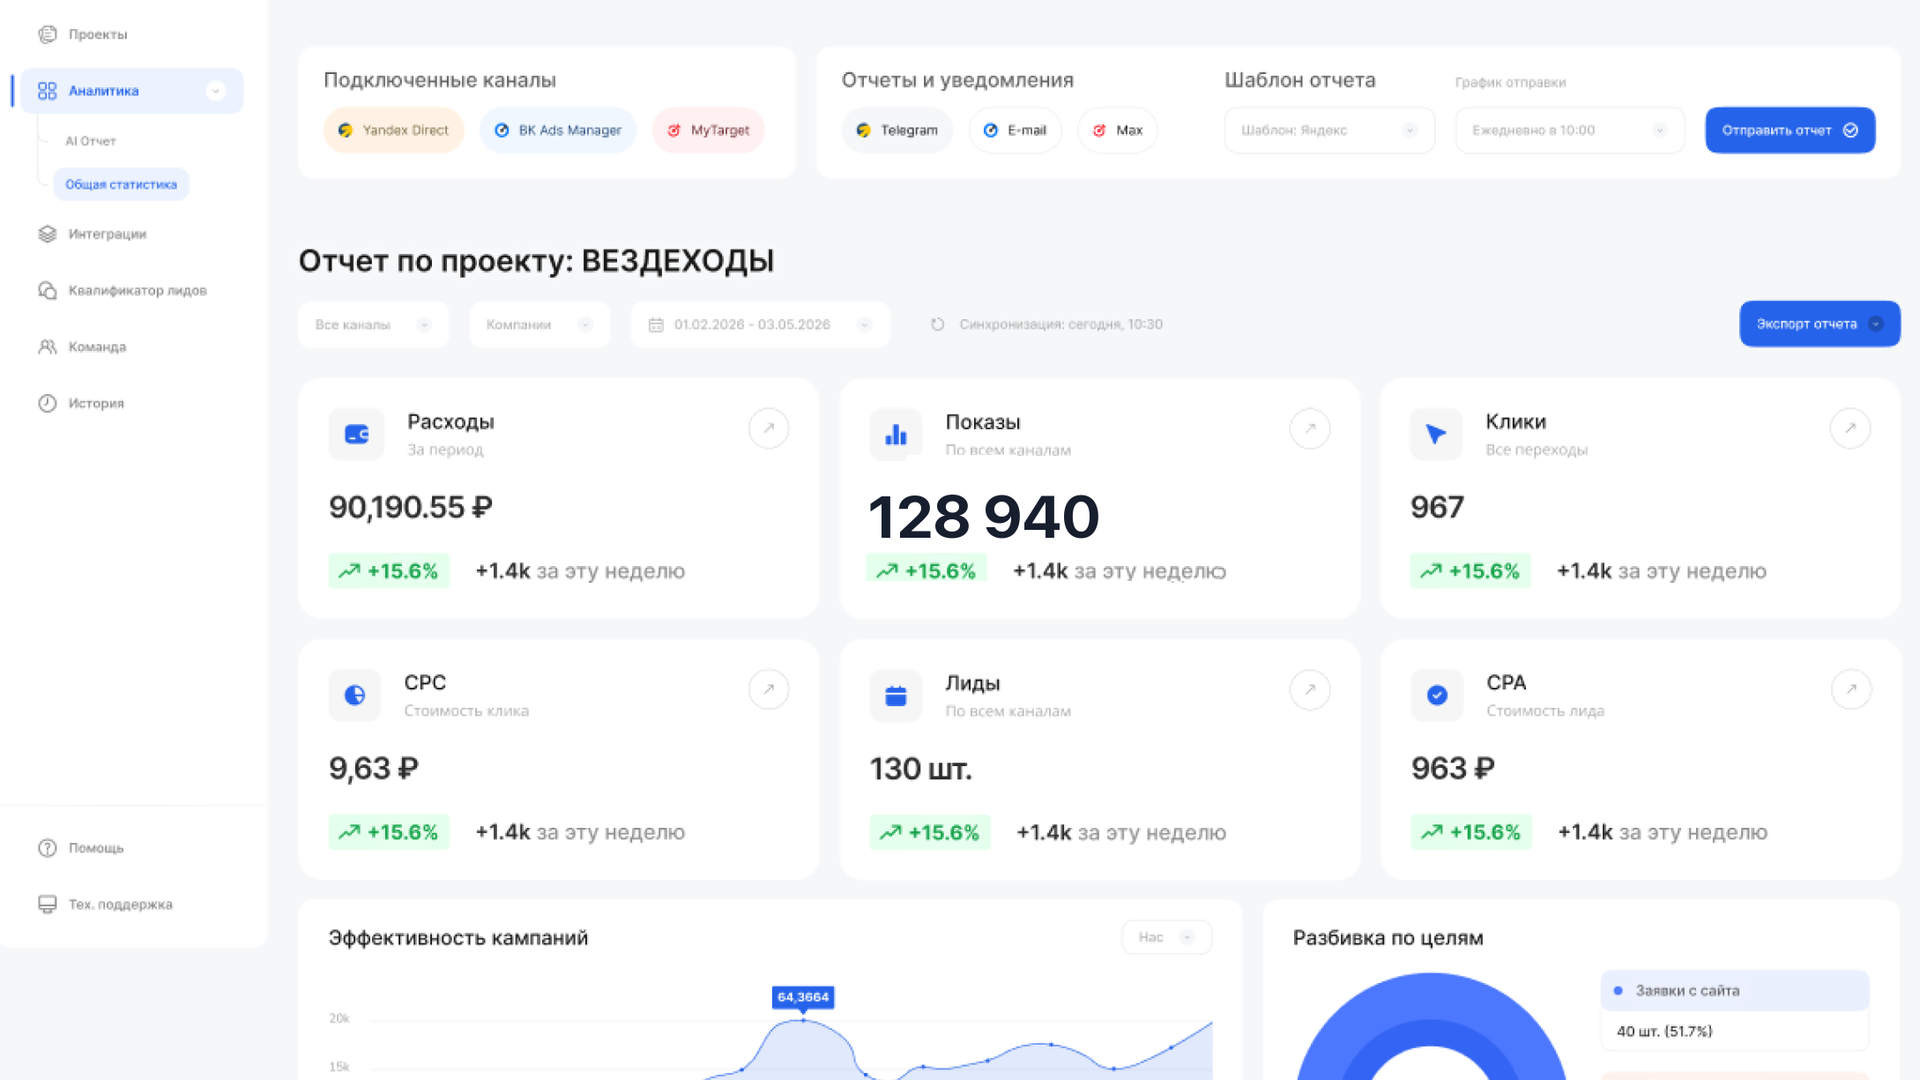
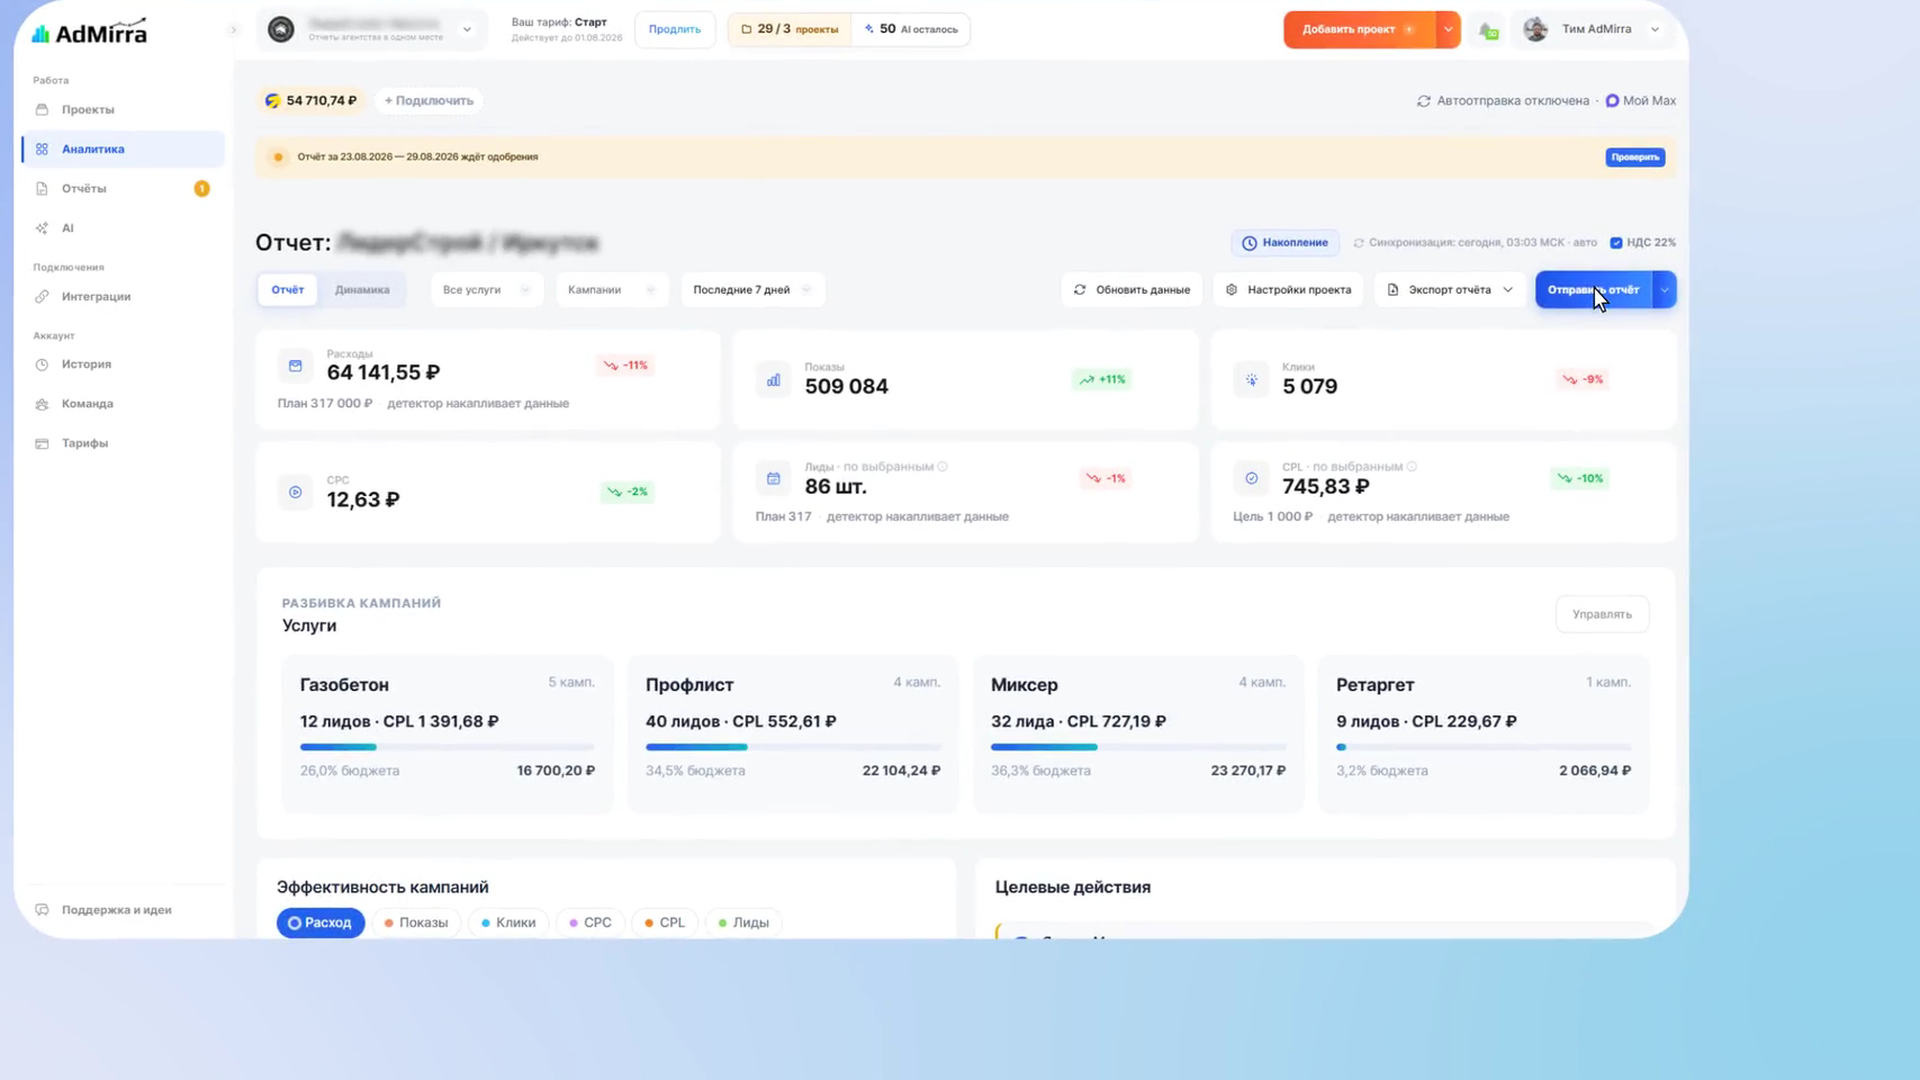
feat(landing): постер планшета — реальный кадр из демо-видео
Заменил реконструированный мок на кадр из admirra-demo.mp4 (75-я секунда):
актуальный интерфейс AdMirra — полная шапка, баланс, сайдбар, 6 KPI-карточек
с планом и дельтами, разбивка кампаний с прогресс-барами. Кадр обрезан в
чистый 16:9 (1920×1080). У видео нет встроенной обложки, поэтому постер задаём
кадром из него. Версия постера поднята до ?v=3 (cache-bust).

Claude-Session: https://claude.ai/code/session_018tEaVUeCD2Cmv5jG2VAAEq

diff --git a/admin-panel-vue-main/admin-panel-vue-main/public/landing-new/index.html b/admin-panel-vue-main/admin-panel-vue-main/public/landing-new/index.html
@@ -68,7 +68,7 @@
 
   <link rel="preload" href="/landing-new/assets/fonts/gilroy-semibold.woff2" as="font" type="font/woff2" crossorigin>
   <link rel="preload" href="/landing-new/assets/fonts/gilroy-medium.woff2" as="font" type="font/woff2" crossorigin>
-  <link rel="preload" href="/landing-new/assets/img/hero-dashboard-16x9.webp?v=2" as="image" type="image/webp" fetchpriority="high">
+  <link rel="preload" href="/landing-new/assets/img/hero-dashboard-16x9.webp?v=3" as="image" type="image/webp" fetchpriority="high">
 
   <link rel="stylesheet" href="/landing-new/assets/css/main.css?v=hero-16x9-20260907">
   <script src="/landing-new/assets/js/main.js?v=hero-16x9-20260907" defer></script>
@@ -166,7 +166,7 @@
         <button type="button" class="hero__play" id="heroPlay"
                 data-video="/landing-new/assets/video/admirra-demo.mp4"
                 aria-label="Смотреть демо AdMirra — 1 минута 52 секунды">
-          <img class="hero__screen" src="/landing-new/assets/img/hero-dashboard-16x9.webp?v=2" width="980" height="551"
+          <img class="hero__screen" src="/landing-new/assets/img/hero-dashboard-16x9.webp?v=3" width="980" height="551"
                fetchpriority="high" decoding="async"
                alt="Дашборд AdMirra: реклама Яндекс.Директ, VK Реклама и Авито Реклама в одной панели">
           <span class="hero__play-btn" aria-hidden="true">
